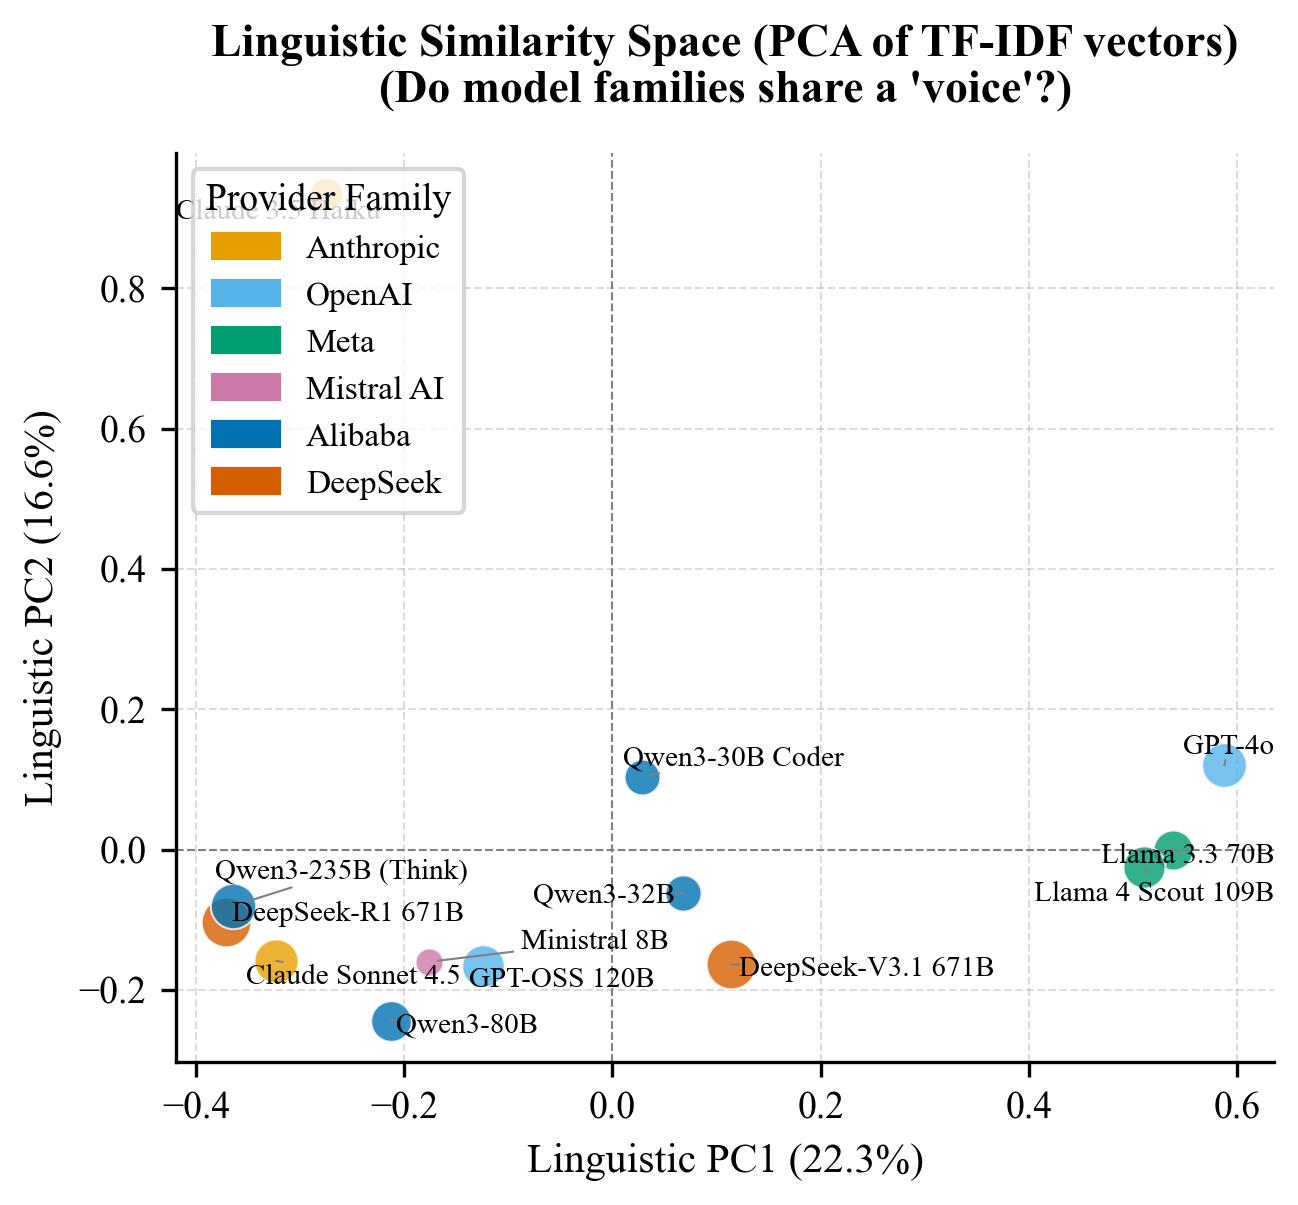
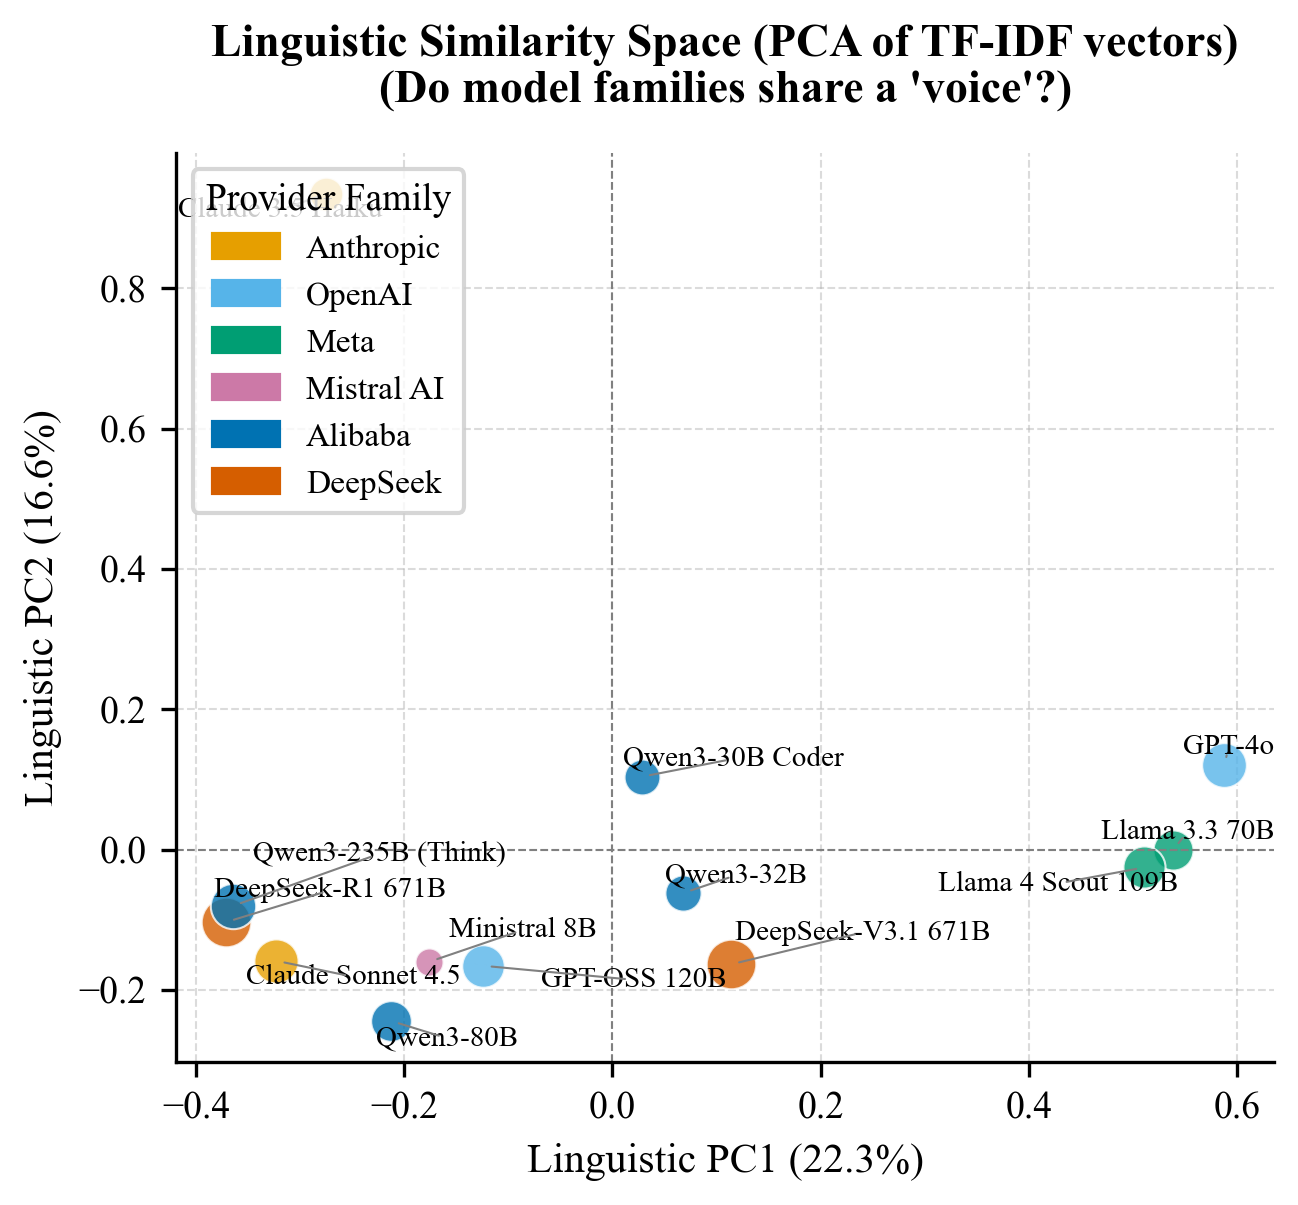
fix(viz): aggressively tune adjust_text for PCA labels
- Applied force_points, force_text, and expand parameters to strictly repel annotations and avoid overlaps in Figure 5

Changed region(s): [[0.1541, 0.7062, 0.7704, 0.8905], [0.7396, 0.6755, 0.9861, 0.7676], [0.1233, 0.1535, 0.2773, 0.1842]]

diff --git a/analysis6/visualizations.py b/analysis6/visualizations.py
@@ -199,7 +199,15 @@ def plot_linguistic_pca(pca_df: pd.DataFrame, var_explained: np.ndarray, out_dir
         ax.scatter(row["pca1"], row["pca2"], color=color, s=size, alpha=0.8, edgecolors="white", linewidth=0.5)
         texts.append(ax.text(row["pca1"], row["pca2"], row["display_name"], fontsize=7, ha='center', va='center'))
         
-    adjust_text(texts, arrowprops=dict(arrowstyle="-", color='gray', lw=0.5))
+    adjust_text(
+        texts,
+        arrowprops=dict(arrowstyle="-", color='gray', lw=0.5),
+        force_text=(0.5, 1.0),
+        force_points=(1.5, 1.5),
+        expand_points=(2, 2),
+        expand_text=(2, 2),
+        max_iterations=2000
+    )
     
     ax.set_xlabel(f"Linguistic PC1 ({var_explained[0]*100:.1f}%)", fontsize=10)
     ax.set_ylabel(f"Linguistic PC2 ({var_explained[1]*100:.1f}%)", fontsize=10)
